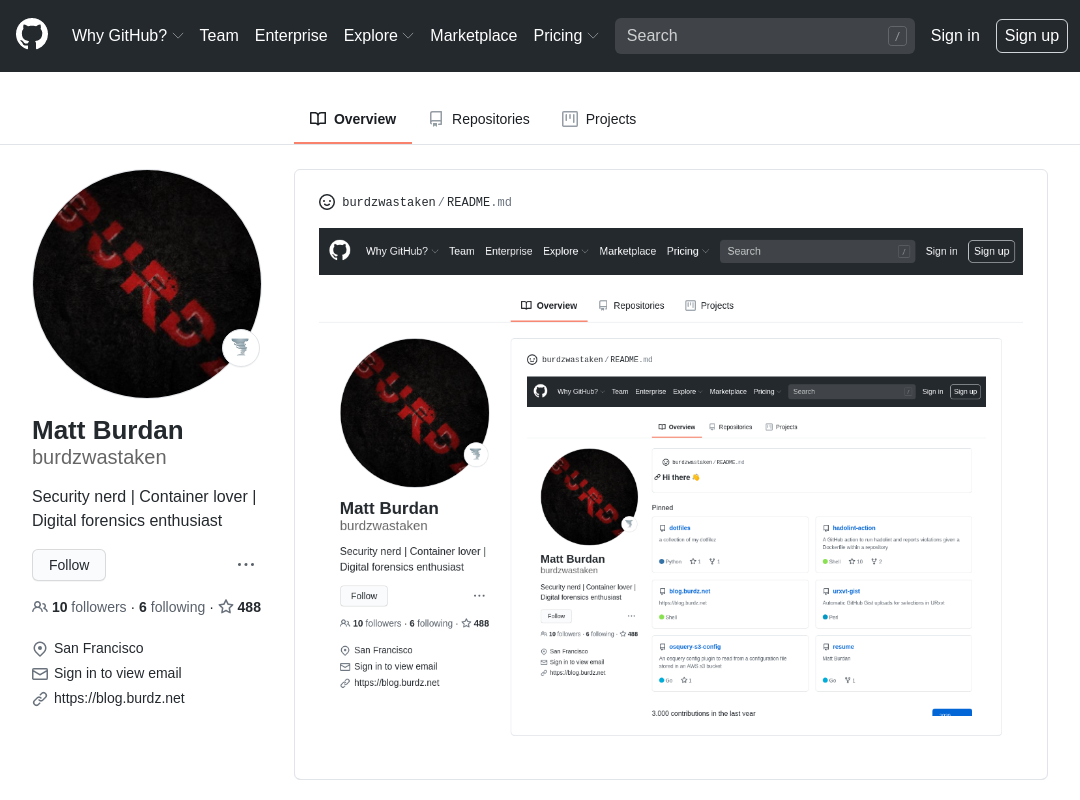
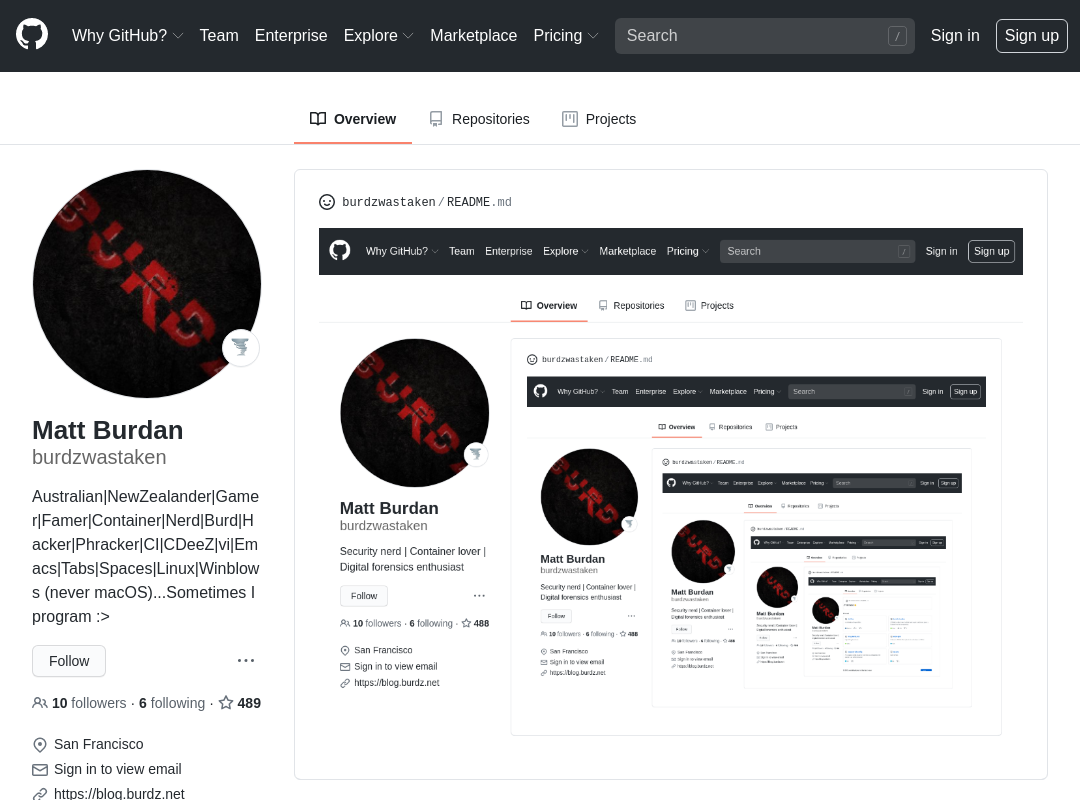
"adds new screenshot at depth 5"

diff --git a/README.md b/README.md
@@ -1,1 +1,1 @@
-![Woah!](https://github.com/burdzwastaken/burdzwastaken/blob/master/screenshot-1.png)
+![Woah!](https://github.com/burdzwastaken/burdzwastaken/blob/master/screenshot-5.png)
